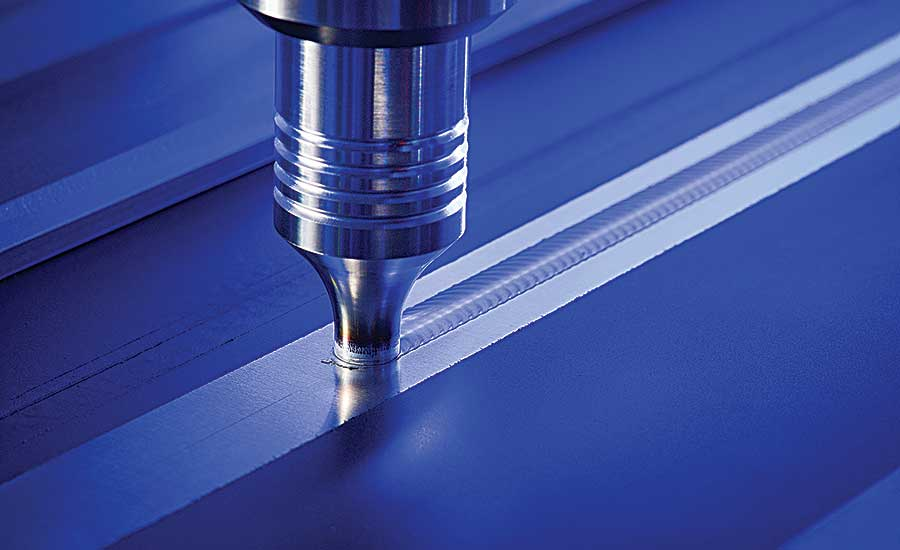
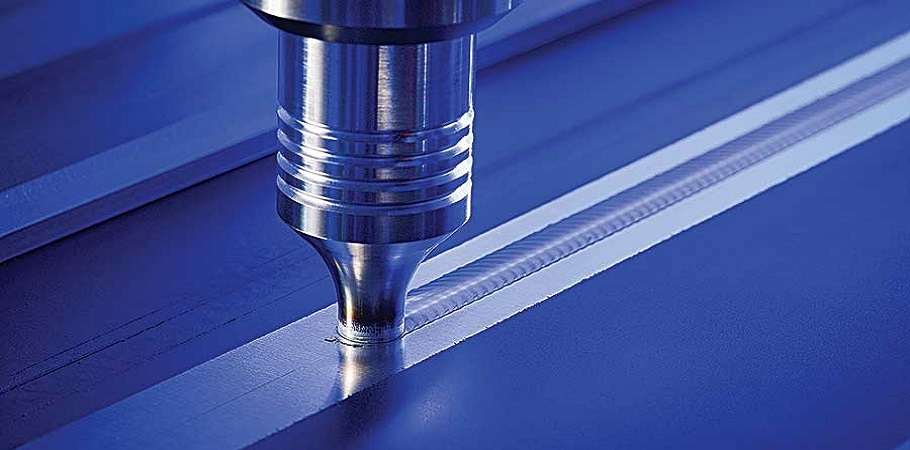
home page carousel

diff --git a/public/css/main.css b/public/css/main.css
@@ -39,7 +39,7 @@ margin:5% 7% ;
     width:100% ;
 }
 .label{
-    background-image: url("../img/slider11.jpg") !important;
+    /* background-image: url("../img/slider11.jpg") !important; */
     background-size:cover ;
     height: 60vh;
 }
@@ -137,3 +137,11 @@ border-right: solid 2px ;
 a{
     color: black;
 }
+.carousel-inner>.item>img, .carousel-inner>.item>a>img {
+    display: block;
+    height: auto;
+    max-width: 100%;
+    line-height: 1;
+    margin:auto;
+    width: 100%; 
+    }
